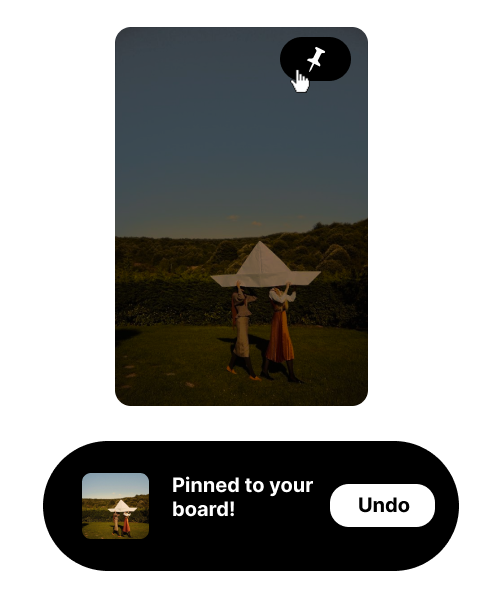
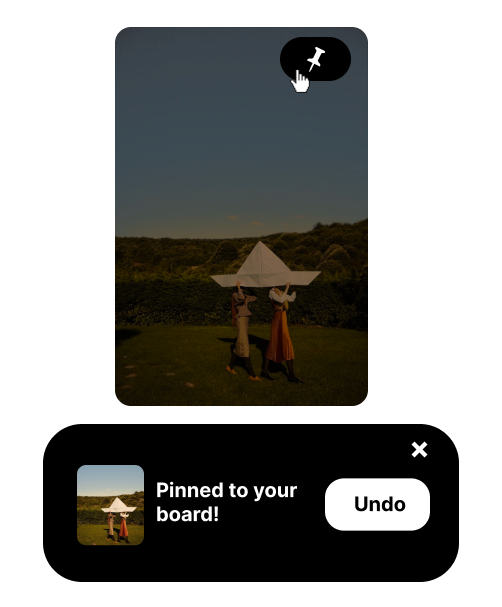
class 11/15 lab

Changed region(s): [[0.0598, 0.682, 0.9263, 0.9786]]

diff --git a/idm241/final/index.html b/idm241/final/index.html
@@ -4,7 +4,7 @@
     <meta charset="UTF-8">
     <meta http-equiv="X-UA-Compatible" content="IE=edge">
     <meta name="viewport" content="width=device-width, initial-scale=1.0">
-    <title>IDM 241 - Beta Build</title>
+    <title>IDM 241 - Final Description</title>
 
     <link rel="stylesheet" href="style.css">
 </head>
@@ -26,8 +26,10 @@
                         <li>Hover on/off image card</li>
                         <li>Hover on/off pin button</li>
                         <li> Click on/off pin button</li>
-                        <li> Hover on/off toast button</li>
-                        <li>Click on toast button</li>
+                        <li> Hover on/off "Undo" button</li>
+                        <li> Click on "Undo" button</li>
+                        <li> Hover on/off "X" button </li>
+                        <li> Click on "X" button </li>
                     </ul>
                 </div>
                 <div class="description-category ">
@@ -62,7 +64,7 @@
                             </ul>
                         </div>
                         <div>
-                            <p> <i>Click on pinbutton</i></p>
+                            <p> <i>Click on pin button</i></p>
                             <ul>
                                 <li>Pin button color changes to black</li>
                                 <li> Pin icon moves up 5px and right 5px in 0.1s, then down 5px and left 5px to original position</li>
@@ -77,24 +79,44 @@
                             </ul>
                         </div>
                         <div>
-                            <p> <i>Hover on toast "Undo" button</i></p>
+                            <p> <i>Hover on "Undo" button</i></p>
                             <ul>
-                                <li>Default cursor to pointer</li>
-                                <li>Background turns gray</li>
+                                <li>Default cursor turns to pointer </li>
+                                <li>Background turns to #AAAAAA</li>
                             </ul>
                         </div>
                         <div>
-                            <p> <i>Hover off toast "Undo" button</i></p>
+                            <p> <i>Hover off "Undo" button</i></p>
                             <ul>
                                 <li> Pointer to default cursor</li>
                                 <li>Background turns original shade</li>
                             </ul>
                         </div>
                         <div>
-                            <p> <i>Click on toast button</i></p>
+                            <p> <i>Click on "Undo" button</i></p>
                             <ul>
-                                <li>Toast condenses and dissolves in 5s</li>
-                                <li>"Removed" toast slides up from the bottom and stays for 5s before fade out</li>
+                                <li> Modal condenses and dissolves in 5s</li>
+                                <li>"Removed" toast modal slides up from the bottom and stays for 5s before fade out</li>
+                            </ul>
+                        </div>
+                        <div>
+                            <p> <i>Hover on "X" button</i></p>
+                            <ul>
+                                <li>Color turns to #AAAAAA</li>
+                                <li> Default pointer turns to cursor</li>
+                            </ul>
+                        </div>
+                        <div>
+                            <p> <i>Hover off "X" button</i></p>
+                            <ul>
+                                <li>Color turns to original shade</li>
+                                <li>Pointer turns to default cursor</li>
+                            </ul>
+                        </div>
+                        <div>
+                            <p> <i>Click on "X" button</i></p>
+                            <ul>
+                                <li>Modal condenses and dissolves in 5s</li>
                             </ul>
                         </div>
                     </div>
@@ -131,7 +153,7 @@
                             </ul>
                         </div>
                         <div>
-                            <p> <i>Click on pinbutton</i></p>
+                            <p> <i>Click on pin button</i></p>
                             <ul>
                                 <li>Pin button color changes to black</li>
                                 <li> Pin icon moves up 5px and right 5px in 0.1s, then down 5px and left 5px to original position</li>
@@ -146,24 +168,44 @@
                             </ul>
                         </div>
                         <div>
-                            <p> <i>Hover on toast "Undo" button</i></p>
+                            <p> <i>Hover on "Undo" button</i></p>
                             <ul>
-                                <li>Default cursor to pointer</li>
-                                <li>Background turns gray</li>
+                                <li>Default cursor turns to pointer </li>
+                                <li>Background turns to #AAAAAA</li>
                             </ul>
                         </div>
                         <div>
-                            <p> <i>Hover off toast "Undo" button</i></p>
+                            <p> <i>Hover off "Undo" button</i></p>
                             <ul>
                                 <li> Pointer to default cursor</li>
                                 <li>Background turns original shade</li>
                             </ul>
                         </div>
                         <div>
-                            <p> <i>Click on toast button</i></p>
+                            <p> <i>Click on "Undo" button</i></p>
                             <ul>
-                                <li>Toast condenses and dissolves in 5s</li>
-                                <li>"Removed" toast slides up from the bottom and stays for 5s before fade out</li>
+                                <li> Modal condenses and dissolves in 5s</li>
+                                <li>"Removed" toast modal slides up from the bottom and stays for 5s before fade out</li>
+                            </ul>
+                        </div>
+                        <div>
+                            <p> <i>Hover on "X" button</i></p>
+                            <ul>
+                                <li>Color turns to red</li>
+                                <li> Default pointer turns to cursor</li>
+                            </ul>
+                        </div>
+                        <div>
+                            <p> <i>Hover off "X" button</i></p>
+                            <ul>
+                                <li>Color turns to original shade</li>
+                                <li>Pointer turns to default cursor</li>
+                            </ul>
+                        </div>
+                        <div>
+                            <p> <i>Click on "X" button</i></p>
+                            <ul>
+                                <li>Modal condenses and dissolves in 5s</li>
                             </ul>
                         </div>
                     </div>
@@ -173,9 +215,9 @@
                     <div>
                         <div class="description-fit">
                             <div>
-                                <p>N/A</p>
                                 <ul>
                                   <!-- <li></li> -->
+                                  <li>Modal pops up and remains on screen until the user interacts with it (closes the "x" or undos save)</li>
                                 </ul>
                             </div>
                         </div>
@@ -212,7 +254,7 @@
                 </div>
             </div>
             <div>
-                <p class="explanation">Click pin, hover toast button, click toast button</p>
+                <p class="explanation">Click pin, hover over "Undo" button, click "Undo" button</p>
                 <hr>
                 <div class="section__images">
                     <div>
@@ -245,6 +287,16 @@
                     </div>
                     <div>
                         <img src="images/static/Frame 14.png" alt="Pinterest image" />
+                    </div>
+                </div>
+            </div>
+
+            <div>
+                <p class="explanation">Hover on "X" button</p>
+                <hr>
+                <div class="section__images">
+                    <div>
+                        <img src="images/static/Frame 15.png" alt="Pinterest image"/>
                     </div>
                 </div>
             </div>

diff --git a/idm241/final/build/script.js b/idm241/final/build/script.js
@@ -27,7 +27,7 @@ const close = document.querySelector('.close-arrow');
 //hover on card image
   imgObj.addEventListener('mouseenter', () => {
     buttonObj.style.display="block";
-    imgObj.style.cssText= 'cursor:zoom-in;';
+    imgObj.style.cssText= 'cursor:zoom-in; transition: filter 0.1s ease-in-out;';
   })
 
   //hover off card image 

diff --git a/idm241/final/build/style.css b/idm241/final/build/style.css
@@ -205,10 +205,10 @@ img {
 
 }
 
-.entire:hover > .image{
+/* .entire:hover > .image{
     filter: brightness(60%);
     transition: filter 0.1s ease-in-out;
-}
+} */
 
 /* .entire:after > .image{
     filter: brightness(0%);
